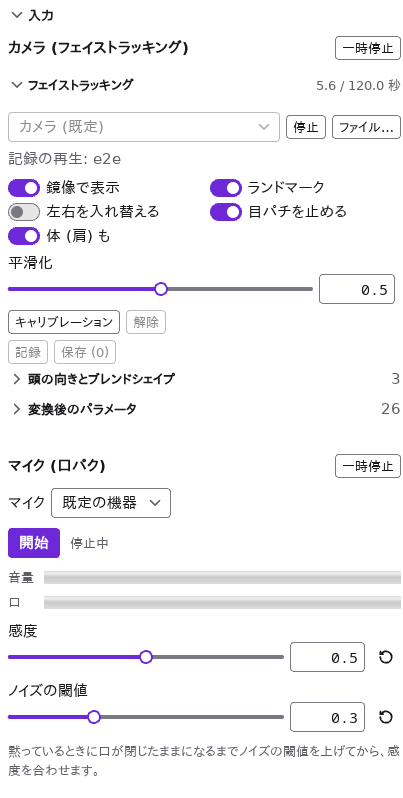
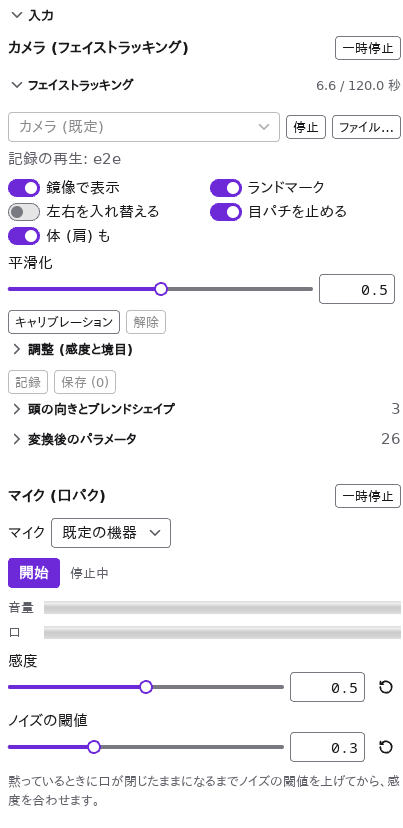
docs(studio): retake the studio inputs image and add the tracking tuning image (T0984)
- docs(studio): retake the inputs panel image and add the tuning image
- docs(tasks): finish T0984

diff --git a/docs/manual/studio.md b/docs/manual/studio.md
@@ -244,6 +244,8 @@ just studio   # スタジオを開発モードで起動する (wasm の用意も
 顔を動かしながらメーターを見て決めてください。メーターの帯が調整の後の値、縦の線が調整の前の値、点線が遊びと境目です。
 値はプロファイルに保存され、どのアバターでも同じ値を使います。「既定に戻す」で、すべて初めの値 (調整しない) に戻ります。
 
+![「調整 (感度と境目)」を開いた様子。キャリブレーションの後に首の左右の感度を 1.5 倍・遊びを 3°、傾きの遊びを 2°、瞼と口の開きの境目を動かしてある。各項目のメーターに、調整の後の値の帯・調整の前の値の縦の線・遊びと境目の点線と、「前 → 後」の数が出る](images/studio-inputs-tuning.png)
+
 | 項目 | 内容 |
 | --- | --- |
 | 首の左右・上下・傾きの「感度」 | 首の角度に掛ける倍率。上げると、少し首を振っただけでキャラクターが大きく振ります |
